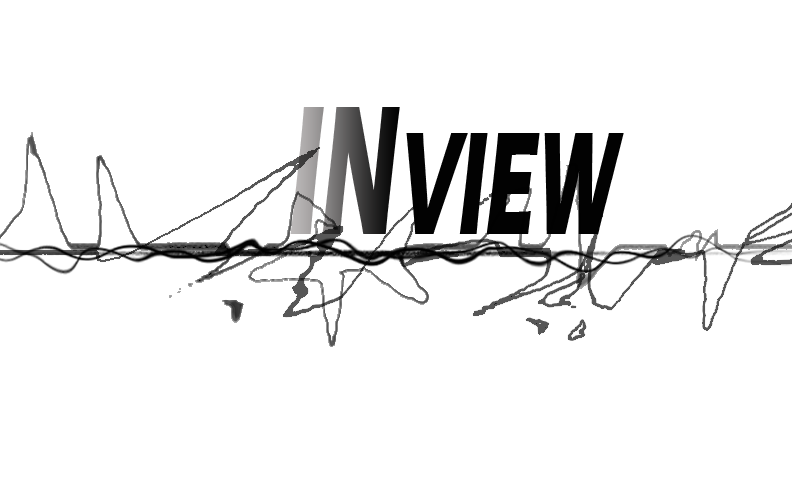
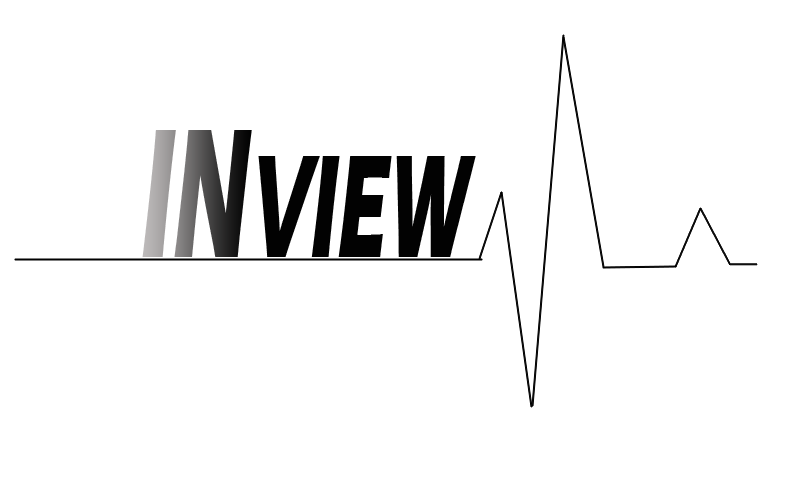
:checkered_flag: Add the last changes

Changed region(s): [[0.0, 0.0595, 1.0, 0.8036], [0.0303, 0.2679, 0.0606, 0.3869], [0.2727, 0.5952, 0.303, 0.6548]]

diff --git a/src/homepage/index.jsx b/src/homepage/index.jsx
@@ -9,12 +9,7 @@ export default class Homepage extends Component {
     return (
       <div className="homepage">
         <div className="homepage-description">
-          <img className="homepage-logo" src={logo} alt="PITCH YOU" />
-          <p className="homepage-motto">
-            PITCH YOUR IDEA
-            <br />
-            PITCH THE VALUE OF YOUR INVESTMENT
-          </p>
+          <img className="homepage-logo" src={logo} alt="INview" />
         </div>
       </div>
     );
